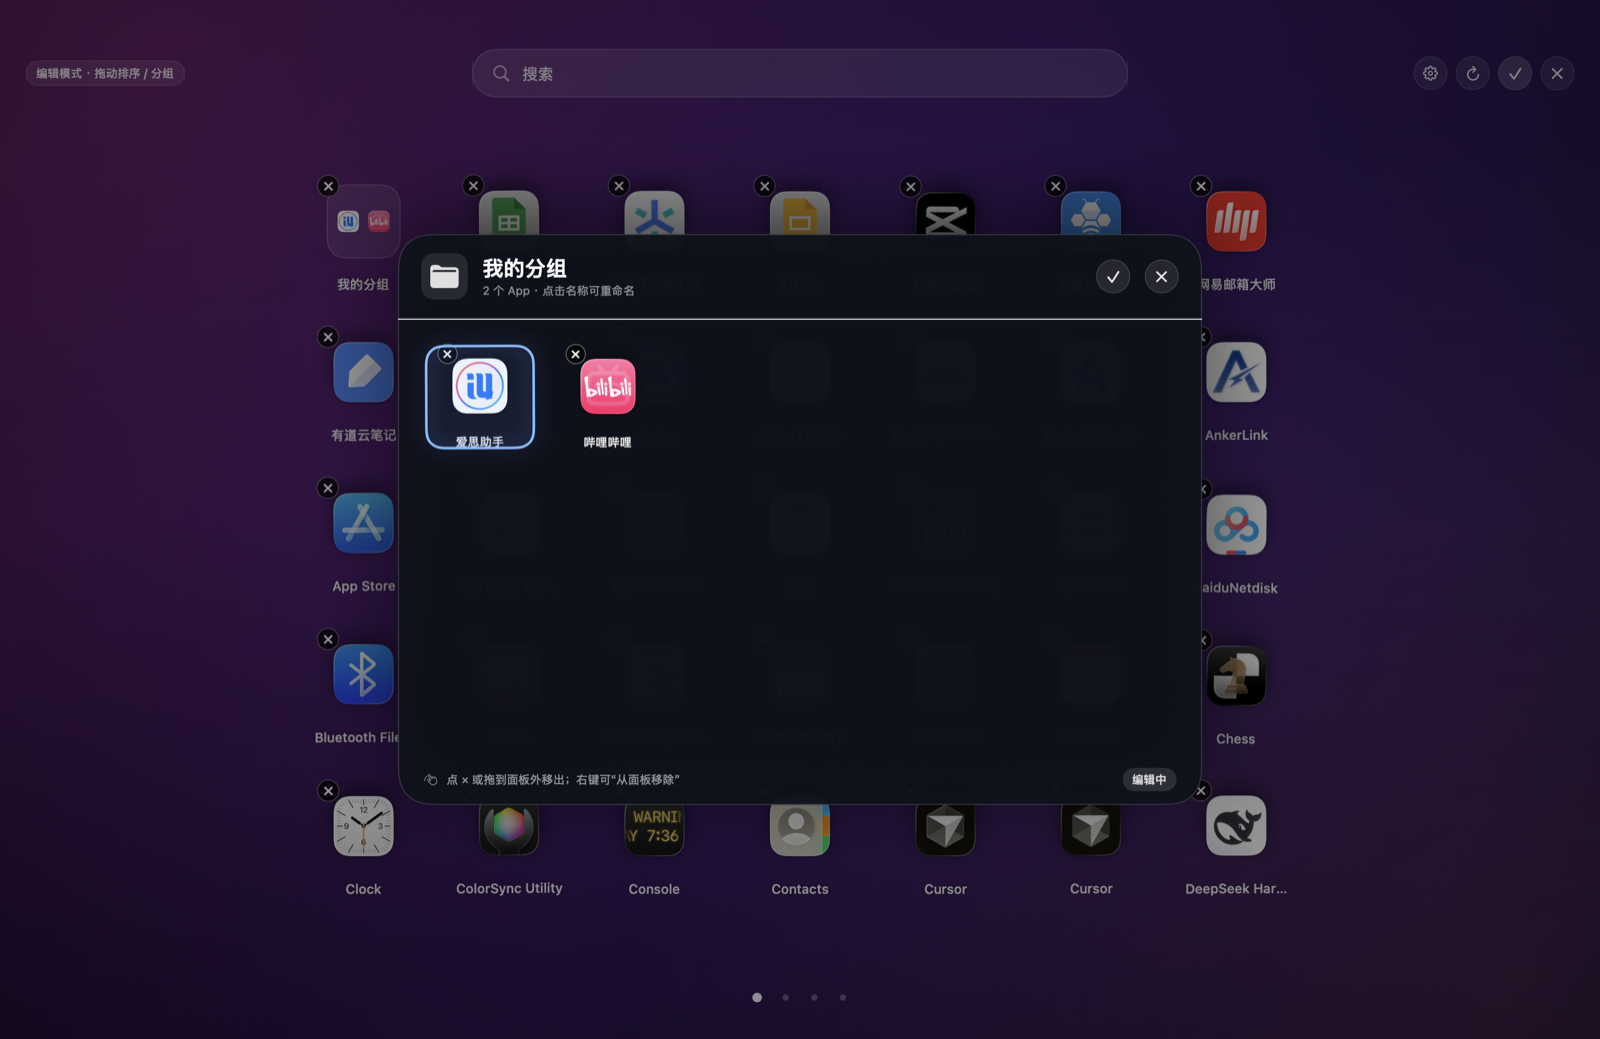
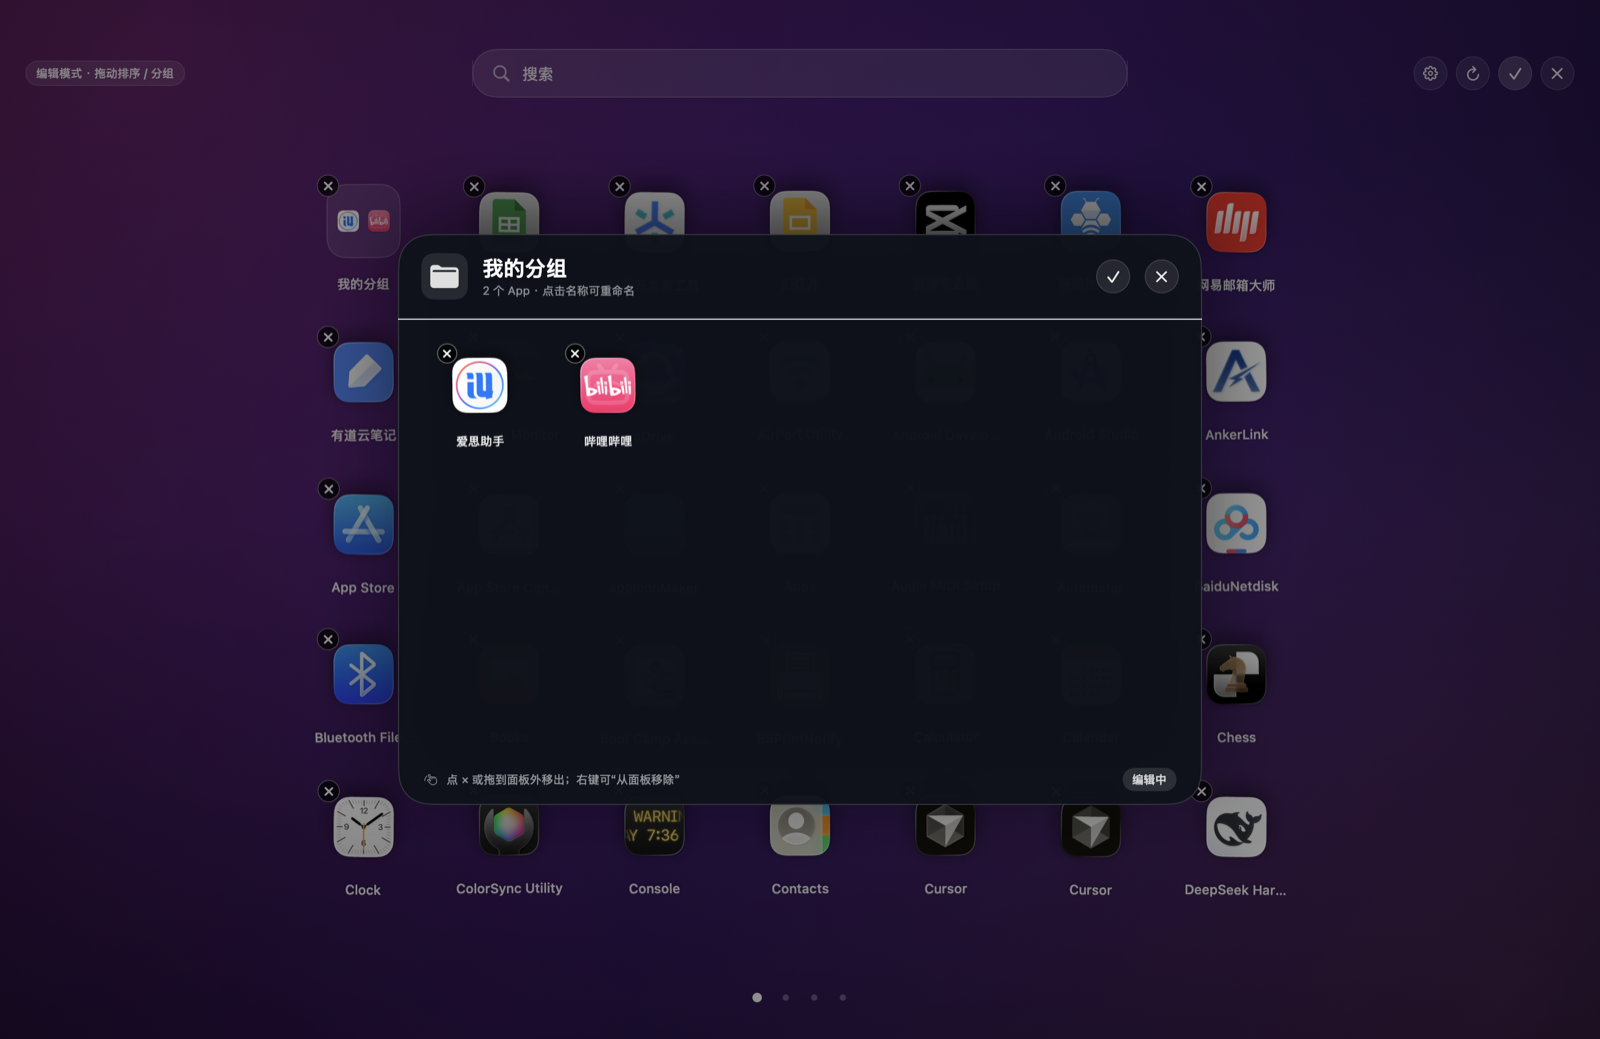
Match folder long-press edit effect

diff --git a/Sources/FolderOverlay.swift b/Sources/FolderOverlay.swift
@@ -139,12 +139,9 @@ struct FolderOverlay: View {
                             FolderAppTile(
                                 app: app,
                                 isEditing: model.isEditing,
-                                isSelected: model.selectedTileID == "app:\(path)",
                                 onOpen: { model.launch(path) },
-                                onSelect: { model.selectedTileID = "app:\(path)" },
                                 onLongPress: {
                                     model.isEditing = true
-                                    model.selectedTileID = "app:\(path)"
                                 },
                                 onRemoveFromFolder: {
                                     model.removeFromFolder(folderID: folder.id, path: path)
@@ -228,9 +225,7 @@ struct FolderOverlay: View {
 private struct FolderAppTile: View {
     let app: AppInfo
     let isEditing: Bool
-    let isSelected: Bool
     let onOpen: () -> Void
-    let onSelect: () -> Void
     let onLongPress: () -> Void
     let onRemoveFromFolder: () -> Void
     let onReveal: () -> Void
@@ -270,27 +265,11 @@ private struct FolderAppTile: View {
                 .frame(width: 96)
         }
         .frame(width: 104)
-        .overlay {
-            if isSelected {
-                RoundedRectangle(cornerRadius: 17, style: .continuous)
-                    .strokeBorder(Color(red: 0.50, green: 0.75, blue: 1.0), lineWidth: 2.4)
-                    .background {
-                        RoundedRectangle(cornerRadius: 17, style: .continuous)
-                            .fill(Color(red: 0.35, green: 0.55, blue: 1.0).opacity(0.10))
-                    }
-                    .shadow(color: Color(red: 0.30, green: 0.55, blue: 1.0).opacity(0.45), radius: 8)
-                    .allowsHitTesting(false)
-            }
-        }
         .contentShape(Rectangle())
         .onTapGesture {
-            if isEditing {
-                onSelect()
-            } else {
-                onOpen()
-            }
+            if !isEditing { onOpen() }
         }
-        .onLongPressGesture(minimumDuration: 0.55) {
+        .onLongPressGesture(minimumDuration: 2.0) {
             onLongPress()
         }
         .contextMenu {

diff --git a/Sources/AppMain.swift b/Sources/AppMain.swift
@@ -403,10 +403,7 @@ enum DashboardMain {
             if ProcessInfo.processInfo.environment["DASHBOARD_SNAPSHOT_OPEN_FOLDER"] == "1",
                let folder = controller.model.layout.tiles.compactMap(\.folder).first {
                 controller.model.openedFolderID = folder.id
-                if let first = folder.appPaths.first {
-                    controller.model.selectedTileID = "app:\(first)"
-                    controller.model.isEditing = true
-                }
+                controller.model.isEditing = true
             }
             if ProcessInfo.processInfo.environment["DASHBOARD_SNAPSHOT_SETTINGS"] == "1" {
                 controller.model.isShowingSettings = true

diff --git a/PLAN.md b/PLAN.md
@@ -30,7 +30,7 @@
 | 拖动排序 | ✅ | 拖到图标边缘/空隙插入，显示插入线；页内排序 |
 | 删除（从面板移除） | ✅ | 修改本地布局 JSON；不会卸载 App，符合旧版 Dashboard 语义 |
 | 真正卸载 App（可选） | ✅ | `NSWorkspace.shared.recycle(_:)` 移到废纸篓，系统会弹授权 |
-| 分组重命名 / 解散 / 移出成员 | ✅ | 本地数据模型 + 右键菜单 / 文件夹弹层；长按选中、拖出弹层、只剩 1 个自动解散 |
+| 分组重命名 / 解散 / 移出成员 | ✅ | 本地数据模型 + 右键菜单 / 文件夹弹层；长按 2 秒进入编辑抖动、拖出弹层、只剩 1 个自动解散 |
 | 搜索 App | ✅ | 顶部搜索框（铺满剩余宽度），按名称 / bundle id 过滤，名称命中优先 |
 | 分页 | ✅ | 底部圆点、←/→；滚轮/双指一次动作只翻一页 |
 | 设置 | ✅ | 齿轮面板：图标小/中/大/超大四档按钮，每页容量按尺寸自动计算；`UserDefaults` 持久化 |
@@ -125,7 +125,7 @@ Layout    { tiles: [Tile], hidden: Set<String> }
 | 点文件夹 | 打开文件夹弹层；点名称可直接改名 |
 | 编辑模式点 ×（App） | 从面板移除，不卸载；Toast 明确提示 |
 | 编辑模式点 ×（文件夹） | 解散文件夹，成员回到网格 |
-| 文件夹内长按图标 | 进入编辑模式，显示 × 和蓝色选中环 |
+| 文件夹内长按图标 2 秒 | 进入编辑模式，图标抖动并显示 × |
 | 文件夹内点 × / 拖到弹层外 | 移出文件夹，回到网格；只剩 1 个时自动解散 |
 | 右键 App | 打开 / 在访达中显示 / 从面板移除 / 移到废纸篓（系统 App 禁止） |
 | Esc | 依次关闭文件夹 → 退出编辑 → 收起面板 |
@@ -167,7 +167,7 @@ Layout    { tiles: [Tile], hidden: Set<String> }
 - [x] 长按 0.55s 进入编辑模式，图标抖动（已实现）
 - [x] 编辑模式下拖拽 A 到 B 生成文件夹（手势 + 命中逻辑已实现，数据层自测通过）
 - [x] 拖动到边缘/空隙可插入排序，不足一页时内容靠上（数据层自测 + 运行时）
-- [x] 文件夹可打开、改名、长按选中、移出成员、解散；拖出弹层可用；只剩 1 个成员自动解散（数据层自测通过）
+- [x] 文件夹可打开、改名、长按 2 秒进入编辑抖动、移出成员、解散；拖出弹层可用；只剩 1 个成员自动解散（数据层自测通过）
 - [x] `Tab` 依次选择，最后一个之后回到第一个；`Shift+Tab` 反向（合成按键测试通过）
 - [x] 选中项有明显蓝色高亮，Enter 可打开（运行时截图验证）
 - [x] 顶部搜索能实时过滤，回车打开第一个结果（运行时截图验证）
